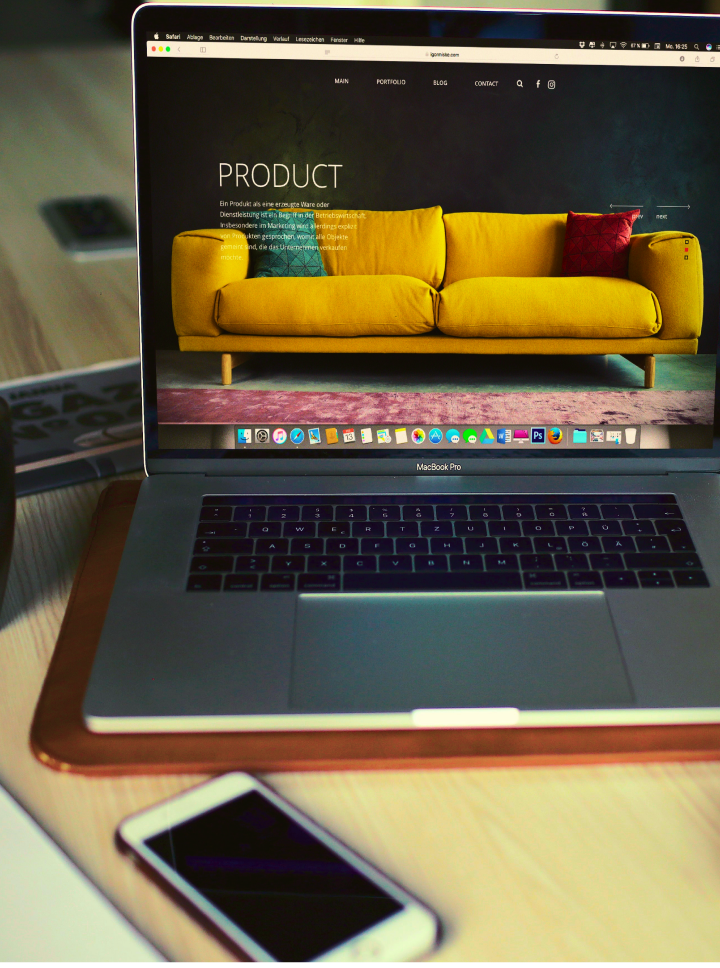
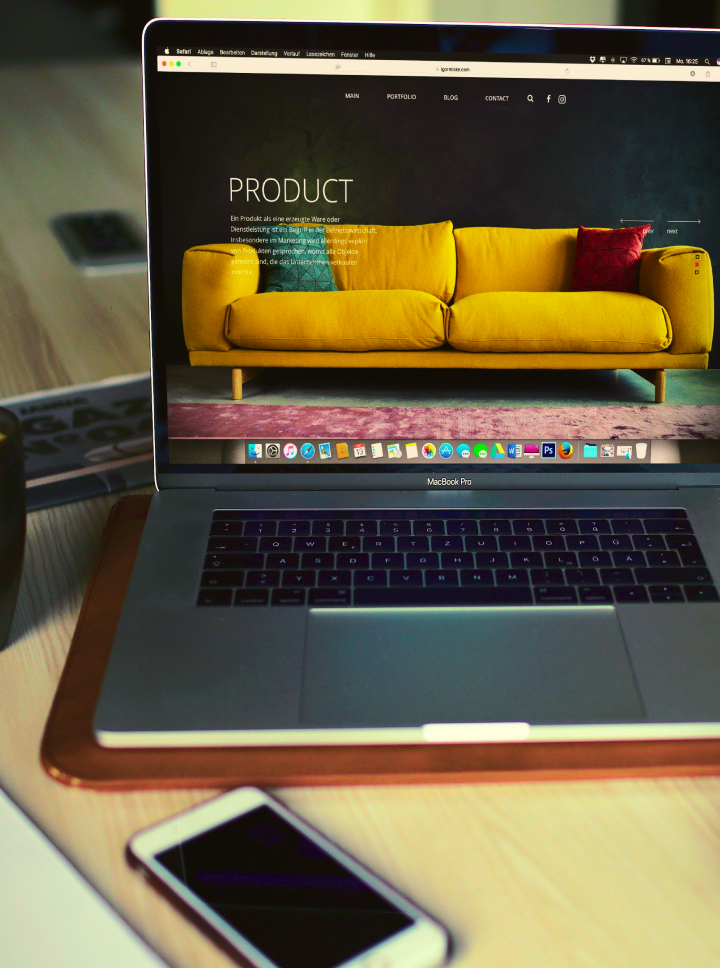
changed size of images and changed backgroud-overlay componment

diff --git a/pages/index.js b/pages/index.js
@@ -68,7 +68,7 @@ export default function Home() {
                   <img
                     src="/gridImg/01.png"
                     alt="development icon logo dev zeppelin webs pages www perfomance "
-                    className="gridImage imagen-filtro"
+                    className="gridImage imagen-filtro w-full"
                   />
                 </div>
               </div>
@@ -81,7 +81,7 @@ export default function Home() {
                 <img
                   src="/gridImg/02.png"
                   alt="development icon logo dev zeppelin webs pages www perfomance "
-                  className="gridImage imagen-filtro"
+                  className="gridImage imagen-filtro w-full"
                 />
               </div>
             </Fade>
@@ -93,7 +93,7 @@ export default function Home() {
                 <img
                   src="/gridImg/03.png"
                   alt="development icon logo dev zeppelin webs pages www perfomance "
-                  className="gridImage imagen-filtro"
+                  className="gridImage imagen-filtro w-full"
                 />
               </div>
             </Fade>
@@ -105,7 +105,7 @@ export default function Home() {
                 <img
                   src="/gridImg/04.png"
                   alt="development icon logo dev zeppelin webs pages www perfomance "
-                  className="gridImage imagen-filtro"
+                  className="gridImage imagen-filtro w-full"
                 />
               </div>
             </Fade>
@@ -115,7 +115,7 @@ export default function Home() {
                 <img
                   src="/gridImg/05.png"
                   alt="development icon logo dev zeppelin webs pages www perfomance "
-                  className="gridImage imagen-filtro"
+                  className="gridImage imagen-filtro w-full"
                 />
               </div>
             </Fade>
@@ -125,7 +125,7 @@ export default function Home() {
                 <img
                   src="/gridImg/06.png"
                   alt="development icon logo dev zeppelin webs pages www perfomance "
-                  className="gridImage imagen-filtro"
+                  className="gridImage imagen-filtro w-full"
                 />
               </div>
             </Fade>
@@ -135,7 +135,7 @@ export default function Home() {
                 <img
                   src="/gridImg/07.png"
                   alt="development icon logo dev zeppelin webs pages www perfomance "
-                  className="gridImage imagen-filtro"
+                  className="gridImage imagen-filtro w-full"
                 />
               </div>
             </Fade>

diff --git a/components/sections/SectionWelcome.js b/components/sections/SectionWelcome.js
@@ -32,7 +32,7 @@ const SectionWelcome = () => {
     <section>
       <div>
         <div className="flex relative overflow-hidden md:grid md:grid-cols-2 text-base md:text-lg xs:px-2 sm:px-6 md:px-24 bg-yellow background-overlay">
-          <div className="first-block text-lightGray space-y-4 md:space-y-5 p-6 md:p-10 my-auto bg-secundary z-40 opacity-70 md:opacity-100 h-full">
+          <div className="first-block text-lightGray space-y-6 md:space-y-8 p-6 md:p-10 bg-secundary z-40 sm:opacity-75 md:opacity-100">
             <h1 className="font-yellow text-yellow text-xl md:text-3xl font-righteous">
               Tu marca al eXtremo
             </h1>
@@ -50,6 +50,10 @@ const SectionWelcome = () => {
             <Link href="/contacto">
               <button className="btn opacity-100">Escribinos ahora</button>
             </Link>         
+            <div>
+              <img>
+              </img>
+            </div>
 
          
           </div>

diff --git a/components/sections/SectionWelcome.css b/components/sections/SectionWelcome.css
@@ -3,6 +3,8 @@
   background-color: transparent;
   opacity: 1;
   transition: background 3s, border-radius 0.3s, opacity 3s;
+  height: 35rem;
+  
 }
 
 .slider-body {
